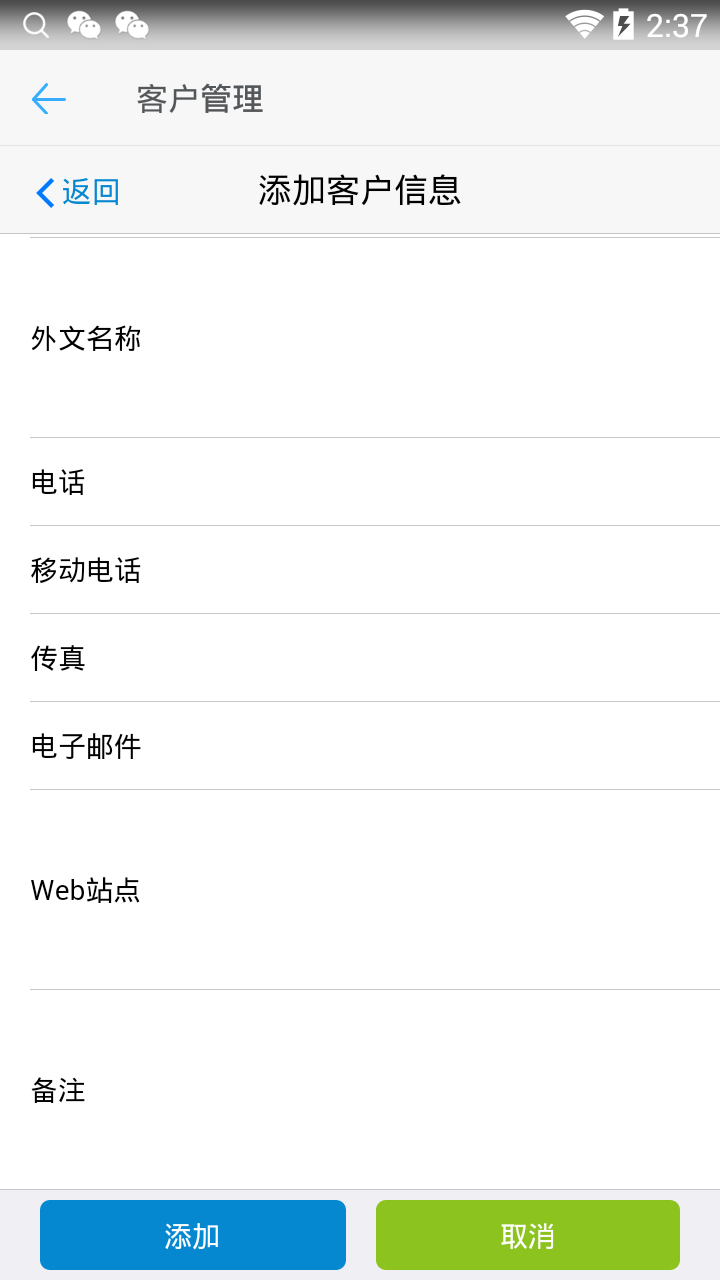
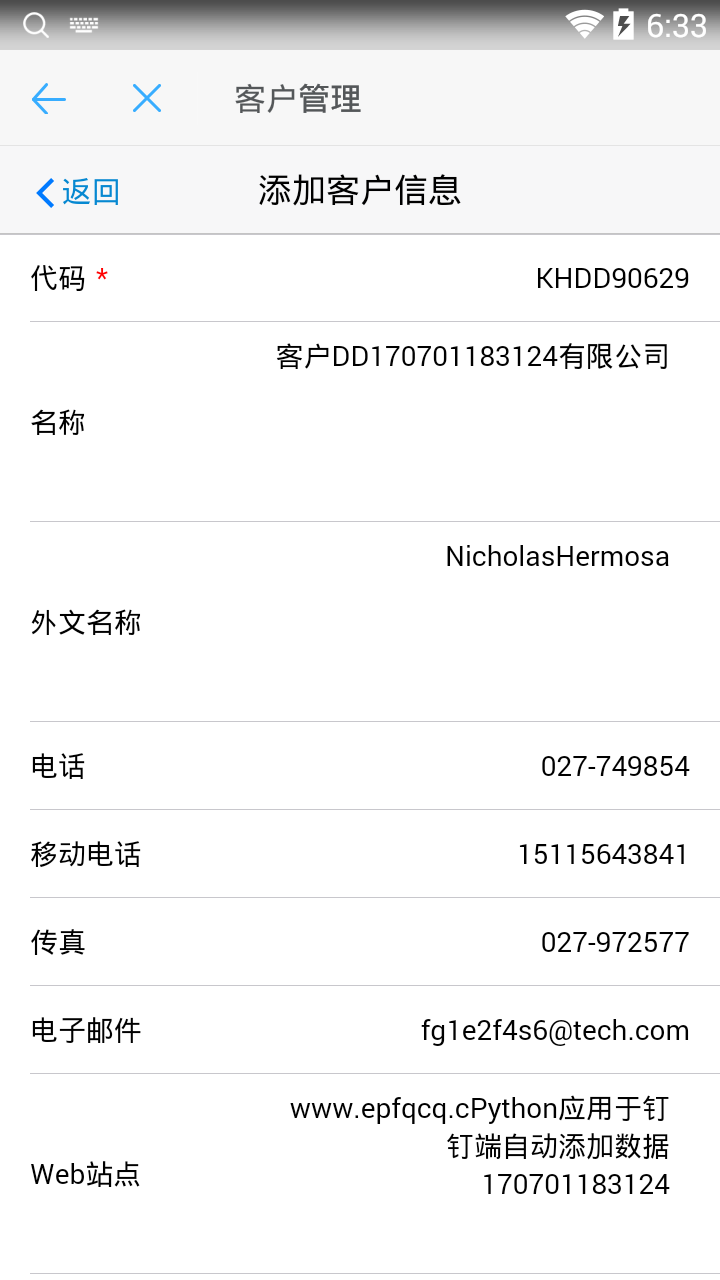
1

diff --git a/MobileTest/FT0101_CustomerManage.py b/MobileTest/FT0101_CustomerManage.py
@@ -7,20 +7,18 @@ from appium import webdriver
 class CustomerManage(unittest.TestCase):
     def setUp(self):
         # 调用钉钉初始化公共方法
-        desired_caps = DingPublic.start_ding(self)
-        self.driver = webdriver.Remote('http://localhost:4723/wd/hub', desired_caps)
-        self.driver.implicitly_wait(25)
+        DingPublic.start_ding(self)
         try:
             self.driver.find_element_by_name("工作").click()
         except Exception as err:
             print(err)
+        self.driver.find_element_by_name("业务管理首页").click()
+        time.sleep(10)
 
     """钉钉-业务管理首页-页面检查"""
     def test_0101_01_check(self):
         """钉钉-业务管理首页-页面检查"""
         driver = self.driver
-        driver.find_element_by_name("业务管理首页").click()
-        time.sleep(5)
 
         v_an = driver.find_elements_by_class_name("android.view.View")
         # for i in v_an:
@@ -41,8 +39,6 @@ class CustomerManage(unittest.TestCase):
         """钉钉-业务管理首页-客户管理添加"""
         driver = self.driver
 
-        driver.find_element_by_name("业务管理首页").click()
-        time.sleep(5)
         v_tim = time.strftime("%y%m%d%H%M%S")
         v_an = driver.find_elements_by_class_name("android.view.View")
         v_an[3].click()
@@ -66,6 +62,7 @@ class CustomerManage(unittest.TestCase):
         driver.swipe(0, 0, 0, 100)
         time.sleep(1)
         driver.find_element_by_accessibility_id("备注").send_keys("Python应用于钉钉端自动添加数据" + v_tim)
+
         driver.find_element_by_accessibility_id("添加 Link").click()
         time.sleep(8)
 
@@ -83,8 +80,7 @@ class CustomerManage(unittest.TestCase):
     def test_0101_03_SupplierAdd(self):
         """钉钉-业务管理首页-供应商添加"""
         driver = self.driver
-        driver.find_element_by_name("业务管理首页").click()
-        time.sleep(5)
+
         v_tim = time.strftime("%y%m%d%H%M%S")
         v_an = driver.find_elements_by_class_name("android.view.View")
         v_an[4].click()
@@ -126,8 +122,7 @@ class CustomerManage(unittest.TestCase):
     def test_0101_04_InventoryLook(self):
         """钉钉-业务管理首页-库存查询检查"""
         driver = self.driver
-        driver.find_element_by_name("业务管理首页").click()
-        time.sleep(5)
+
         v_an = driver.find_elements_by_class_name("android.view.View")
         v_an[5].click()
         time.sleep(3)
@@ -157,8 +152,7 @@ class CustomerManage(unittest.TestCase):
     def test_0101_05_SalesOrderStatus(self):
         """钉钉-业务管理首页-销售订单状态"""
         driver = self.driver
-        driver.find_element_by_name("业务管理首页").click()
-        time.sleep(5)
+
         v_an = driver.find_elements_by_class_name("android.view.View")
         v_an[9].click()
         time.sleep(3)
@@ -188,8 +182,7 @@ class CustomerManage(unittest.TestCase):
     def test_0101_06_OrderWarning(self):
         """钉钉-业务管理首页-订单预警"""
         driver = self.driver
-        driver.find_element_by_name("业务管理首页").click()
-        time.sleep(5)
+
         v_an = driver.find_elements_by_class_name("android.view.View")
         v_an[10].click()
         time.sleep(3)
@@ -219,8 +212,7 @@ class CustomerManage(unittest.TestCase):
     def test_0101_07_PurchaseOrderStatu(self):
         """钉钉-业务管理首页-采购订单状态"""
         driver = self.driver
-        driver.find_element_by_name("业务管理首页").click()
-        time.sleep(5)
+
         v_an = driver.find_elements_by_class_name("android.view.View")
         v_an[11].click()
         time.sleep(3)
@@ -250,8 +242,7 @@ class CustomerManage(unittest.TestCase):
     def test_0101_08_PurchaseTrack(self):
         """钉钉-业务管理首页-采购到货跟踪"""
         driver = self.driver
-        driver.find_element_by_name("业务管理首页").click()
-        time.sleep(5)
+
         v_an = driver.find_elements_by_class_name("android.view.View")
         v_an[12].click()
         time.sleep(3)
@@ -281,8 +272,7 @@ class CustomerManage(unittest.TestCase):
     def test_0101_06_SalesOrderAdd(self):
         """钉钉-业务管理首页-销售订单添加"""
         driver = self.driver
-        driver.find_element_by_name("业务管理首页").click()
-        time.sleep(5)
+
         v_tim = time.strftime("%y%m%d%H%M%S")
         v_an = driver.find_elements_by_class_name("android.view.View")
         v_an[7].click()
@@ -297,8 +287,14 @@ class CustomerManage(unittest.TestCase):
         v_list = driver.find_elements_by_class_name("android.view.View")
         v_list[1].click()
 
-        time.sleep(1)
-        driver.find_element_by_accessibility_id("确定 Link").click()
+        driver.find_elements_by_android_uiautomator()
+        for i in driver.find_elements_by_class_name("android.view.View"):
+            if i.is_enabled():
+                print(i)
+                i.click()
+
+        # time.sleep(1)
+        # driver.find_element_by_accessibility_id("确定 Link").click()
         time.sleep(3)
 
         driver.find_element_by_accessibility_id("物料明细* Link").click()

diff --git a/FunctionTest/FT16_System/FT1615_LineCustom.py b/FunctionTest/FT16_System/FT1615_LineCustom.py
@@ -81,7 +81,6 @@ class DataRelated(unittest.TestCase):
             m += 1
 
     '''系统管理-常规设置-隐藏特定行字段'''
-
     def test_1615_02_HideZD(self):
         """系统管理-警报设置-数据相关查询"""
         driver = self.driver
@@ -116,22 +115,17 @@ class DataRelated(unittest.TestCase):
             driver.find_element_by_id("comboBoxXmlName").send_keys(v_meus[m])
             driver.find_element_by_id("btnHidColumn").click()
             time.sleep(3)
-
-            v_lists = driver.find_elements_by_class_name("x-grid3-hd-row")
-            v_cols = v_lists[0].find_elements_by_tag_name("td")
+            v_cols = driver.find_elements_by_class_name("x-grid3-hd-inner")
+            l = ['折扣%', '税码', '税点', '行字母数字']
 
             for i in v_cols:
-                print(i.text)
-                l = ['折扣%', '税码', '税点', '行字母数字']
-                for d in l:
-                    if d in i.text:
-                        i.click()
-                        time.sleep(2)
-                        # 勾选隐藏
-                        driver.find_element_by_id("checkHidden").click()
-                        driver.find_element_by_id("btnSubmit").click()
-                        time.sleep(1)
-
+                if "折扣%" in i.text:
+                    i.click()
+                    time.sleep(2)
+                    # 勾选隐藏
+                    driver.find_element_by_id("checkHidden").click()
+                    driver.find_element_by_id("btnSubmit").click()
+                    time.sleep(1)
             driver.find_element_by_id("btnSave").click()
             time.sleep(2)
             v_tip = driver.find_elements_by_class_name("ext-mb-text")
@@ -146,13 +140,9 @@ class DataRelated(unittest.TestCase):
                     unittest.expectedFailure("test_1615_02_HideZD")
             m += 1
 
-
-
-
     def tearDown(self):
         self.driver.quit()
         self.assertEqual([], self.verificationErrors)
-
 
 if __name__ == "__main__":
     unittest.main()

diff --git a/PubliCode/PubMobile.py b/PubliCode/PubMobile.py
@@ -25,4 +25,7 @@ class DingPublic:
         # 使用哪种自动化引擎。appium（默认）还是Selendroid。api小于17使用Selendroid
         # self.desired_caps["automationName"] = "Selendroid"
 
+        self.driver = webdriver.Remote('http://localhost:4723/wd/hub', desired_caps)
+        self.driver.implicitly_wait(25)
+
         return self.desired_caps
